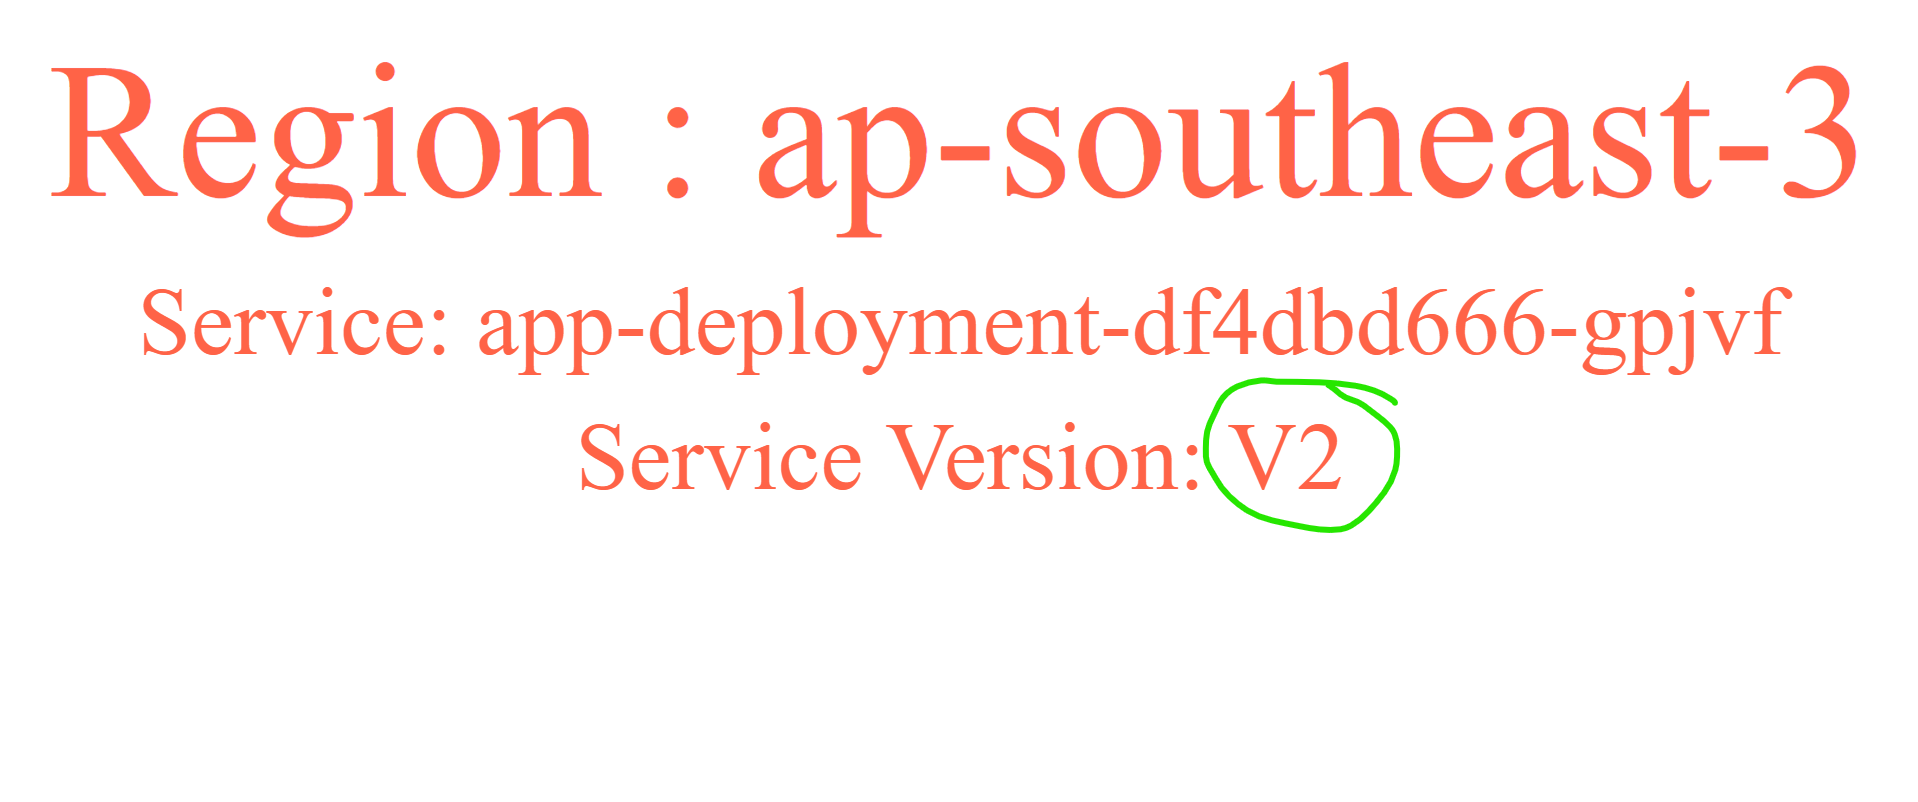
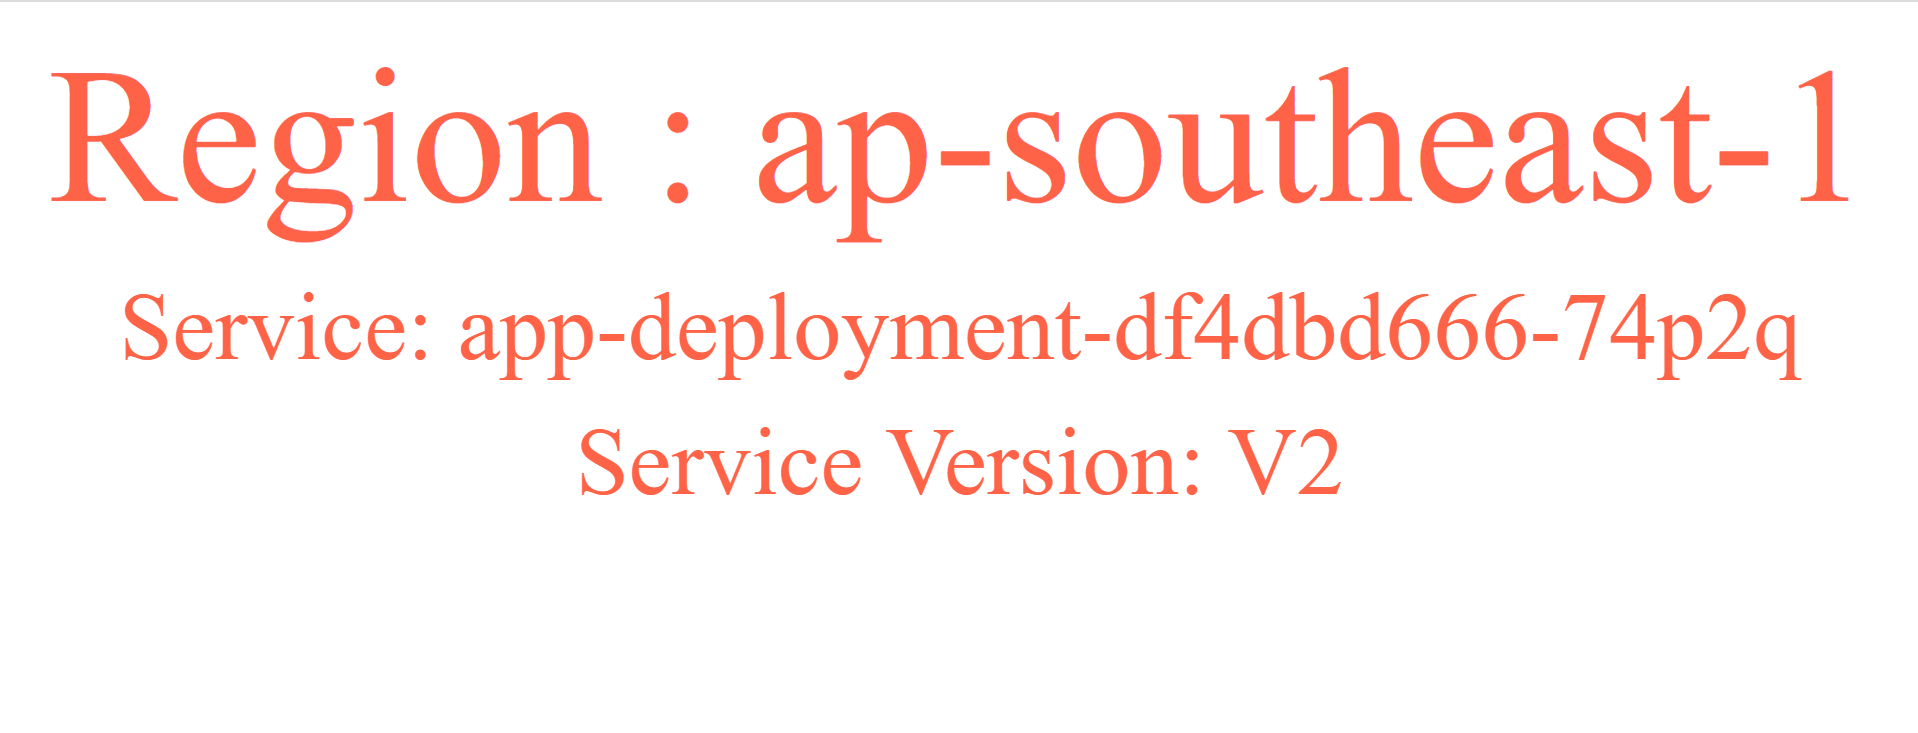
update verification

diff --git a/README.md b/README.md
@@ -209,7 +209,12 @@ terraform apply
 ![ApplicationStatus](./images/006_argocd_app_update_3.png)
 
 5. When you refresh the application page again, you should observe the changes
+
+* Hong Kong Region
 ![appchanges](./images/006_argocd_app_update_4.png)
+
+* Bangkok Region
+![appchanges](./images/006_argocd_app_update_5.png)
 
 # Clean up
 1. Change directory to `multi-cluster-workshop/kubernetes`
